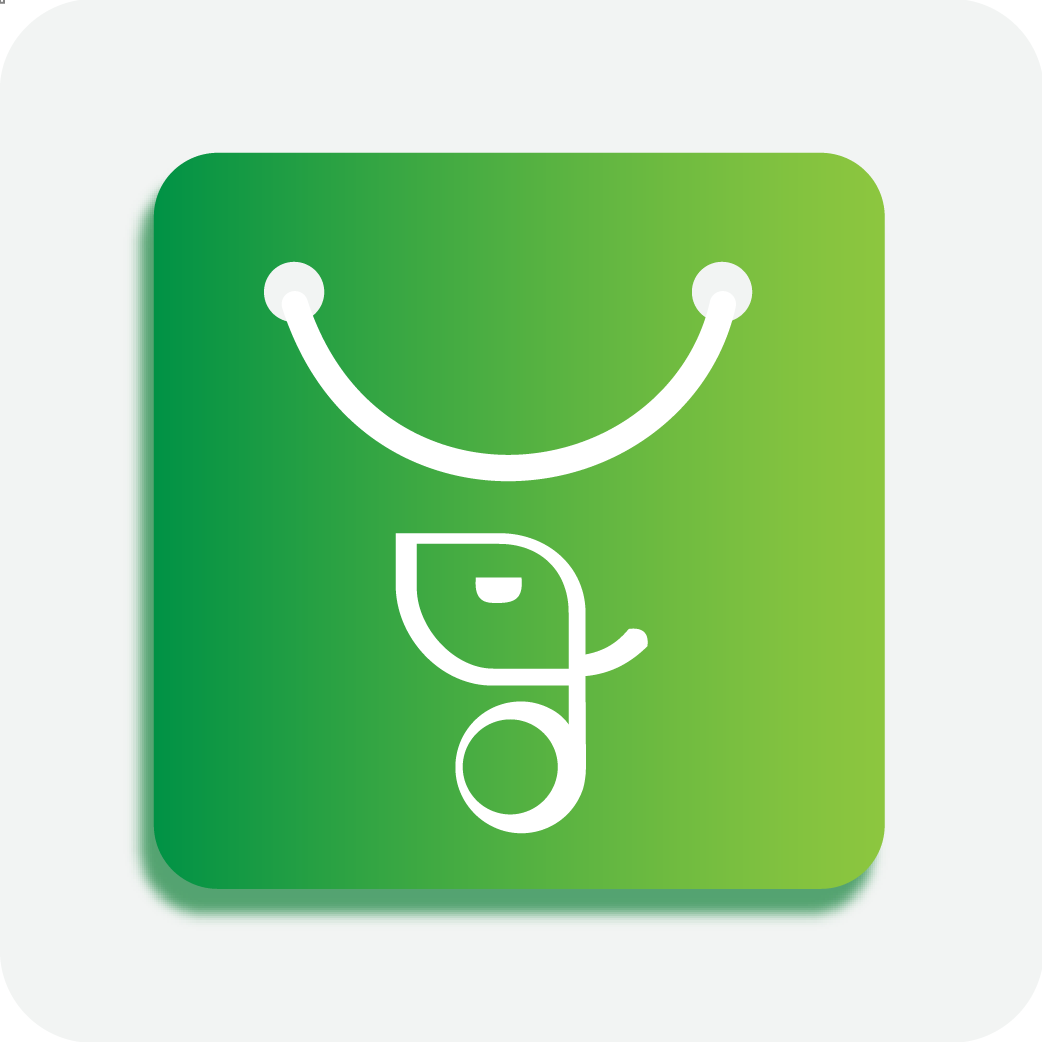
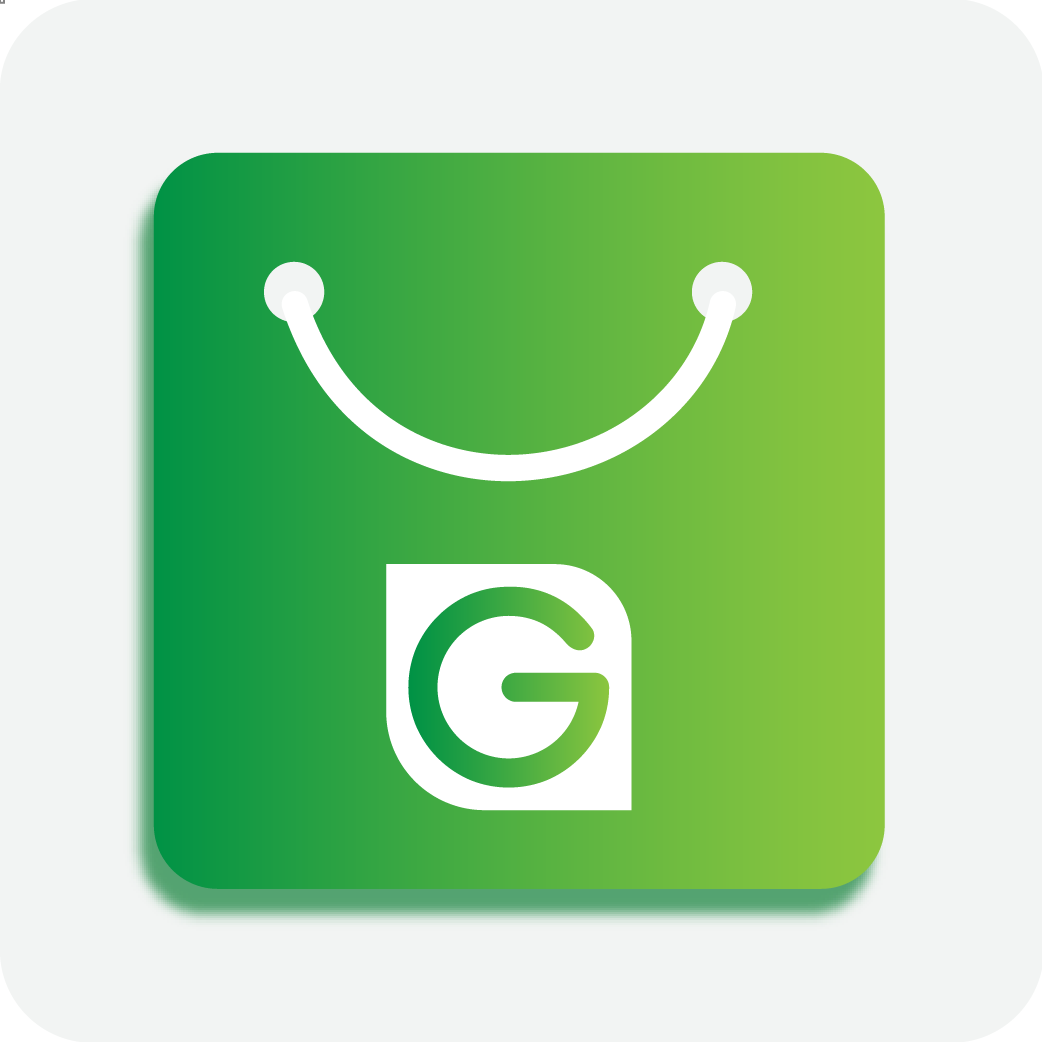
ui-Api Changes

Changed region(s): [[0.3685, 0.4914, 0.6142, 0.7985]]

diff --git a/Components/Brands.js b/Components/Brands.js
@@ -7,77 +7,77 @@ const data = [
     {
         id : 1,
         name : 'Amul',
-        img : 'http://gms.upgrate.in/wp-content/uploads/2021/01/1.jpg'
+        img : 'http://grocers.upgrate.in/wp-content/uploads/2021/04/1-150x150.png'
     },
     {
         id : 2,
         name : 'dal',
-        img : 'http://gms.upgrate.in/wp-content/uploads/2020/12/Ganesh-Logo-01.png'
+        img : 'http://grocers.upgrate.in/wp-content/uploads/2021/04/2-1-150x150.png'
     },
     {
         id : 3,
         name : 'dabur',
-        img : 'http://gms.upgrate.in/wp-content/uploads/2021/01/3.jpg'
+        img : 'http://grocers.upgrate.in/wp-content/uploads/2021/04/3-150x150.png'
     },
     {
         id : 4,
         name : 'catch',
-        img : 'http://gms.upgrate.in/wp-content/uploads/2021/01/4.jpg'
+        img : 'http://grocers.upgrate.in/wp-content/uploads/2021/04/4-150x150.png'
     },
     {
         id : 5,
         name : 'act II',
-        img : 'http://gms.upgrate.in/wp-content/uploads/2021/01/5.jpg'
+        img : 'http://grocers.upgrate.in/wp-content/uploads/2021/04/5-150x150.png'
     },
     {
         id : 6,
         name : 'haldiram',
-        img : 'http://gms.upgrate.in/wp-content/uploads/2021/01/6.jpg'
+        img : 'http://grocers.upgrate.in/wp-content/uploads/2021/04/6-150x150.png'
     },
     {
         id : 7,
         name : 'johnson',
-        img : 'http://gms.upgrate.in/wp-content/uploads/2021/01/7.jpg'
+        img : 'http://grocers.upgrate.in/wp-content/uploads/2021/04/7-150x150.png'
     },
     {
         id : 8,
         name : 'patanjali',
-        img : 'http://gms.upgrate.in/wp-content/uploads/2021/01/8.png'
+        img : 'http://grocers.upgrate.in/wp-content/uploads/2021/04/8-150x150.png'
     },
     {
         id : 9,
         name : 'britania',
-        img : 'http://gms.upgrate.in/wp-content/uploads/2021/01/9.png'
+        img : 'http://grocers.upgrate.in/wp-content/uploads/2021/04/9-150x150.png'
     },
     {
         id : 10,
         name : 'parle',
-        img : 'http://gms.upgrate.in/wp-content/uploads/2021/01/10.jpg'
+        img : 'http://grocers.upgrate.in/wp-content/uploads/2021/04/10-150x150.png'
     },
     {
         id : 11,
         name : 'bambino',
-        img : 'http://gms.upgrate.in/wp-content/uploads/2021/01/11.jpg'
+        img : 'http://grocers.upgrate.in/wp-content/uploads/2021/04/11-150x150.png'
     },
     {
         id : 12,
         name : 'cadbury',
-        img : 'http://gms.upgrate.in/wp-content/uploads/2021/01/12.jpg'
+        img : 'http://grocers.upgrate.in/wp-content/uploads/2021/04/12-150x150.png'
     },
     {
         id : 13,
         name : 'cremica',
-        img : 'http://gms.upgrate.in/wp-content/uploads/2021/01/13.jpg'
+        img : 'http://grocers.upgrate.in/wp-content/uploads/2021/04/13-150x150.png'
     },
     {
         id : 14,
         name : 'himalaya',
-        img : 'http://gms.upgrate.in/wp-content/uploads/2021/01/14.jpg'
+        img : 'http://grocers.upgrate.in/wp-content/uploads/2021/04/14-150x150.png'
     },
     {
         id : 15,
         name : 'dettol',
-        img : 'http://gms.upgrate.in/wp-content/uploads/2021/01/15.jpg'
+        img : 'http://grocers.upgrate.in/wp-content/uploads/2021/04/15-150x150.png'
     }
 ];
 
@@ -91,7 +91,7 @@ export default function Brands() {
                     return(
                         <TouchableOpacity key={item.id} onPress={()=>navigation.navigate('BrandScreen', {item})}>
                             <View style={styles.box} key={item.id}>
-                                <Image style={{width : width*0.28, height : height*0.14, resizeMode : 'contain'}} source={{uri : item.img}}/>
+                                <Image style={{width : width*0.28, height : height*0.14, resizeMode : 'contain', objectFit : 'contain'}} source={{uri : item.img}}/>
                             </View>
                         </TouchableOpacity>
                     )

diff --git a/Components/CategoryComp.js b/Components/CategoryComp.js
@@ -44,12 +44,12 @@ export default function CategoryComp() {
                    }else{
                        var i = 'http://gms.upgrate.in/wp-content/uploads/2020/12/Pulses-1.jpg'
                    }
-                    if(item.parent === 65){
+                    if(item.parent === 16){
                         food.push(
                         <TouchableOpacity key={item.id} onPress={()=>navigation.navigate('CatProducts', {item})}>
                             <Category url={i[0]+'.'+i[1]+'.'+i[2]+'-100x100.jpg'} title={item.name}/>
                         </TouchableOpacity>)
-                    }else if(item.parent === 85){
+                    }else if(item.parent === 33){
                         breverages.push(
                         <TouchableOpacity key={item.id} onPress={()=>navigation.navigate('CatProducts', {item})}>
                             <Category url={i[0]+'.'+i[1]+'.'+i[2]+'-100x100.jpg'} title={item.name}/>
@@ -59,7 +59,7 @@ export default function CategoryComp() {
                         <TouchableOpacity key={item.id} onPress={()=>navigation.navigate('CatProducts', {item})}>
                             <Category url={i[0]+'.'+i[1]+'.'+i[2]+'-100x100.jpg'} title={item.name}/>
                         </TouchableOpacity>)
-                    }else if(item.parent === 95){
+                    }else if(item.parent === 20){
                         personalcare.push(
                         <TouchableOpacity key={item.id} onPress={()=>navigation.navigate('CatProducts', {item})}>
                             <Category url={i[0]+'.'+i[1]+'.'+i[2]+'-100x100.jpg'} title={item.name}/>
@@ -84,12 +84,12 @@ export default function CategoryComp() {
                     <View style={styles.CatView}>
                         {breverages}
                     </View>
-                    <View style={styles.head}>
+                    {/* <View style={styles.head}>
                         <Text style={styles.CatHead}>Home Care</Text>
                     </View>
                     <View style={styles.CatView}>
                         {homecare}
-                    </View>
+                    </View> */}
                     <View style={styles.head}>
                         <Text style={styles.CatHead}>Personal Care</Text>
                     </View>
@@ -97,12 +97,12 @@ export default function CategoryComp() {
                         {personalcare}
                     </View>
 
-                    <View style={styles.head}>
+                    {/* <View style={styles.head}>
                         <Text style={styles.CatHead}>Misclleneous</Text>
                     </View>
                     <View style={styles.CatView}>
                         {misclleneous}
-                    </View>
+                    </View> */}
                 </View>
             </View>
         )

diff --git a/navigators/CustomDrawer.js b/navigators/CustomDrawer.js
@@ -21,20 +21,20 @@ export default function CustomDrawer(props) {
                     <View>
                         <View style={styles.userPanel}>
                             <View style={styles.avatarView}>
-                                <Image style={styles.avatar} source={{uri : 'http://gms.upgrate.in/wp-content/uploads/2020/12/Ganesh-Logo-01.png'}}/>
+                                <Image style={styles.avatar} source={require('../assets/icon.png')}/>
                             </View>
-                            <Text style={styles.username}>Ganesh Supermarket</Text>
+                            <Text style={styles.username}>Grocers</Text>
                             <View style={{flexDirection : 'row', marginVertical : 5}}>
-                                <TouchableOpacity style={{marginHorizontal : 10}} onPress={()=>Linking.openURL('https://www.instagram.com/ganeshsupermarket2021/')}>
+                                <TouchableOpacity style={{marginHorizontal : 10}} onPress={()=>Linking.openURL('https://www.instagram.com/upgrate.in/')}>
                                     <Icon name='instagram' color='white' size={20}/>
                                 </TouchableOpacity>
-                                <TouchableOpacity style={{marginHorizontal : 10}} onPress={()=>Linking.openURL('https://www.facebook.com/ganeshsuparmarket')}>
+                                <TouchableOpacity style={{marginHorizontal : 10}} onPress={()=>Linking.openURL('https://www.facebook.com/upgrate.in')}>
                                     <Icon name='facebook-square' color='white' size={20}/>
                                 </TouchableOpacity>
-                                <TouchableOpacity style={{marginHorizontal : 10}} onPress={()=>Linking.openURL('https://wa.me/message/67NDYDEBQW5NO1')}>
+                                <TouchableOpacity style={{marginHorizontal : 10}} onPress={()=>Linking.openURL('https://wa.me/+918979877325')}>
                                     <Icon name='whatsapp' color='white' size={20}/>
                                 </TouchableOpacity>
-                                <TouchableOpacity style={{marginHorizontal : 10}} onPress={()=>Linking.openURL(`tel:${9084833077}`)}>
+                                <TouchableOpacity style={{marginHorizontal : 10}} onPress={()=>Linking.openURL(`tel:${8979877325}`)}>
                                     <Icon name='phone' color='white' size={20}/>
                                 </TouchableOpacity>
                             </View>
@@ -92,7 +92,8 @@ export default function CustomDrawer(props) {
 const styles = StyleSheet.create({
     avatar : {
         height : 60,
-        width : 60
+        width : 60,
+        borderRadius : 50
     },
     avatarView : {
        

diff --git a/Components/FlatCarousel.js b/Components/FlatCarousel.js
@@ -1,35 +1,48 @@
-import React from 'react'
+import React, {useState, useEffect} from 'react'
 import { View, Text, Dimensions } from 'react-native'
 import {FlatListSlider} from 'react-native-flatlist-slider';
+import WooCommerce from '../Components/WooCommerce';
+import HeaderLoader from '../Loaders/HeaderLoader'
 
 const {width} = Dimensions.get('window')
 
 export default function FlatCarousel() {
-    const DATA = [
-        {
-          id: '1',
-          url: 'https://gms.upgrate.in/wp-content/uploads/h1.jpg',
-        },
-        {
-          id: '2',
-          url: 'https://gms.upgrate.in/wp-content/uploads/h2.jpg',
-        },
-        {
-          id: '3',
-          url: 'https://gms.upgrate.in/wp-content/uploads/h3.jpg',
-        },
-        {
-          id: '4',
-          url: 'https://gms.upgrate.in/wp-content/uploads/h4.jpg',
-        }
-      ];
-    return (
+      const [loading, setLoading] = useState(true);
+      const [images, setImages] = useState([])
+      useEffect(()=>{
+          WooCommerce.get("products/categories",{
+              parent : 60
+          })
+          .then((response) => {
+              response.map((item,i)=>{
+                const data = images
+                data.push({
+                  id : item.id,
+                  url : item.image.src
+                })
+                setImages(data)
+                if(i===response.length-1){
+                  setTimeout(() => {
+                    setLoading(false)
+                  }, 1000);
+                }
+              })
+          })
+          .catch((error) => {
+              console.log(error.response);
+          });
+      },[])
+
+      if(loading) return <HeaderLoader/>
+      else{
+        return (
           <FlatListSlider
-            data={DATA}
+            data={images}
             imageKey={'url'}
             timer={5000}
             height={width*0.5}
             onPress={()=>{}}
           />
-    )
+        )
+      }
 }

diff --git a/Components/Header.js b/Components/Header.js
@@ -14,7 +14,7 @@ export default function Header() {
                     <TouchableOpacity onPress={()=>navigation.openDrawer()}>
                         <Icon style={styles.icon} name='bars'/>
                     </TouchableOpacity>
-                    <Text style={styles.logo}>Ganesh Supermarket</Text>
+                    <Text style={styles.logo}>Grocers</Text>
                 </View>
                 <TouchableOpacity onPress={()=>navigation.navigate('Cart')}>
                     <Icon style={styles.icon} name='opencart'/>
@@ -23,7 +23,7 @@ export default function Header() {
             <TouchableOpacity onPress={()=>navigation.navigate('Search')}>
             <View style={styles.parentSearch}>
                 <View style={styles.searchBox}>
-                    <Text style={{paddingLeft : 5, color : 'grey'}}>Find Something</Text>
+                    <Text style={{paddingLeft : 5, color : 'grey'}}>Explore Products</Text>
                     <View style={styles.searchIcon}>
                         <Icon color='white' size={20} name='search'/>
                     </View>

diff --git a/Components/WooCommerce.js b/Components/WooCommerce.js
@@ -2,10 +2,10 @@ import React from 'react'
 import WooCommerceRestApi from 'react-native-woocommerce-api';
 
 const WooCommerce = new WooCommerceRestApi({
-    url: 'https://gms.upgrate.in/',
+    url: 'http://grocers.upgrate.in/',
     ssl: true,
-    consumerKey: 'ck_b30218a87aa7f17f09251ad2d2c73caac9df3bb4',
-    consumerSecret: 'cs_3c1490af4a4bc7127117e96ef7739e4b0460e31a',
+    consumerKey: 'ck_b5bd0361fac68c0c2856a7947a691197163324d5',
+    consumerSecret: 'cs_1ff19c9d13cdd3353c16f3a8dc7558661139dcbd',
     wpAPI: true,
     version: 'wc/v3',
     queryStringAuth: true

diff --git a/Loaders/HeaderLoader.js b/Loaders/HeaderLoader.js
@@ -1,0 +1,15 @@
+import React from 'react'
+import { Dimensions } from 'react-native'
+import SkeletonPlaceholder from "react-native-skeleton-placeholder";
+
+const {width, height} = Dimensions.get('window')
+
+export default function HeaderLoader() {
+    return (
+    <SkeletonPlaceholder>
+      <SkeletonPlaceholder.Item justifyContent='center' alignItems="center">
+            <SkeletonPlaceholder.Item height={height*0.25} width={width-20} borderRadius={10} margin={5}/>
+      </SkeletonPlaceholder.Item>
+    </SkeletonPlaceholder>
+    )
+}

diff --git a/Screens/Auth/SignUp.js b/Screens/Auth/SignUp.js
@@ -54,6 +54,8 @@ import Loader from '../../Components/Loader';
           
           WooCommerce.post("customers", data)
             .then((response) => {
+                console.log(data)
+                console.log(response, response.data)
               AsyncStorage.setItem('user', JSON.stringify(response));
               AsyncStorage.setItem('cart', JSON.stringify([]));
               navigation.navigate('ScreenOne');
